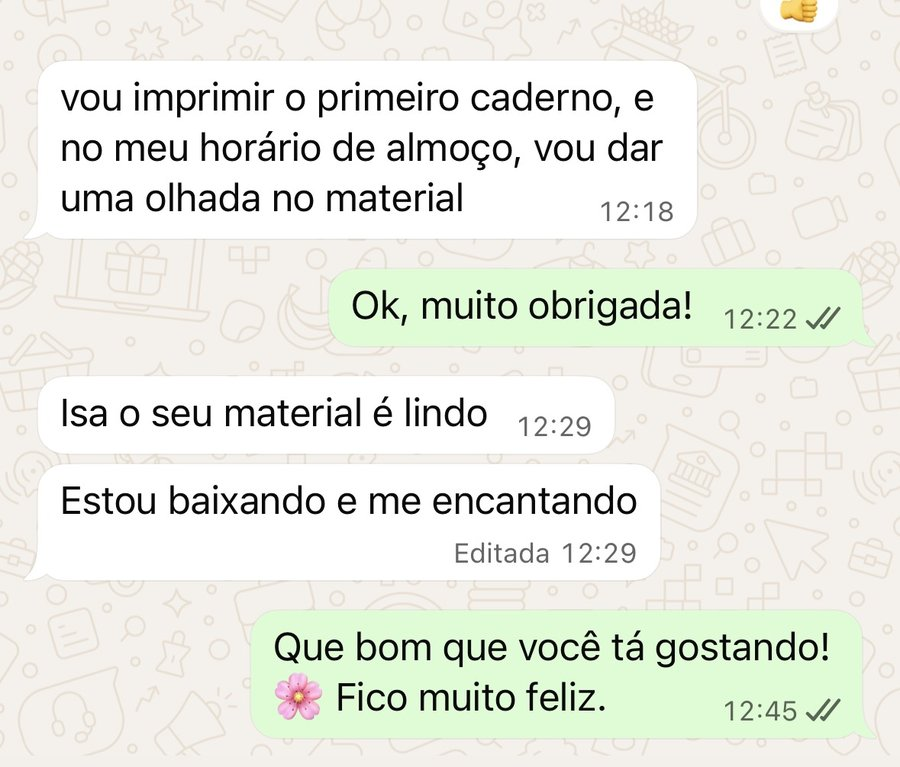
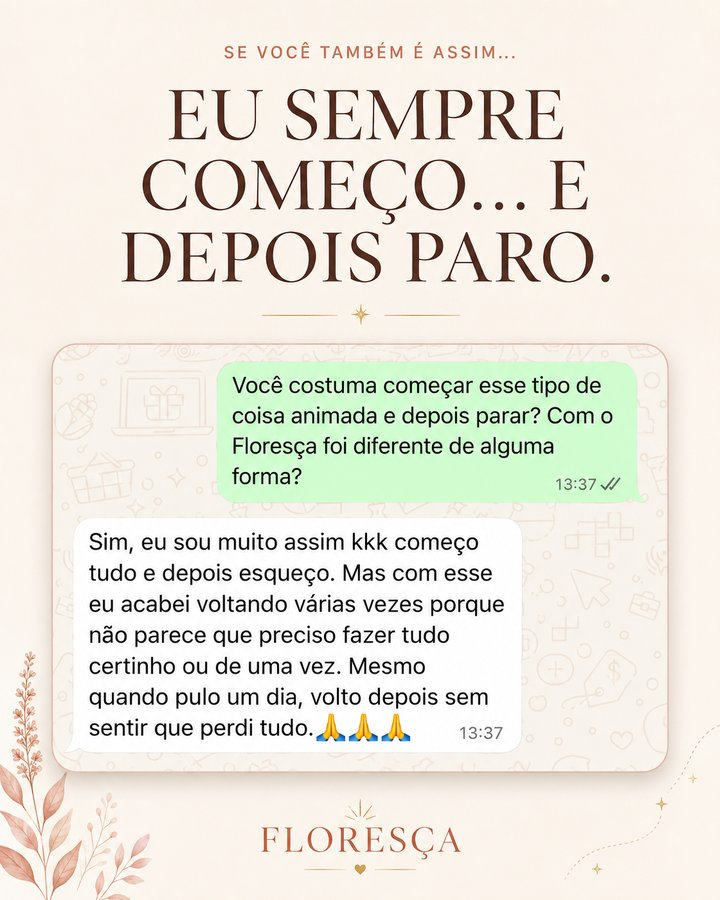
Troca depoimentos da secao Conversas Reais pelos 6 novos prints, em lista vertical em vez de carrossel
Assim a pessoa consegue ler todos rolando a pagina, sem precisar arrastar/clicar entre eles.

diff --git a/index.html b/index.html
@@ -850,51 +850,20 @@ img { max-width: 100%; display: block; }
 
 /* Carrossel de depoimentos (prints reais) */
 .proof-section { padding: 48px 0 40px; background: #fff; text-align: center; }
-.proof-carousel-wrap { position: relative; max-width: 420px; margin: 30px auto 0; }
-.proof-carousel {
+.proof-stack {
+  max-width: 460px;
+  margin: 30px auto 0;
+  padding: 0 20px;
   display: flex;
-  overflow-x: auto;
-  scroll-snap-type: x mandatory;
-  -webkit-overflow-scrolling: touch;
-  gap: 0;
-  border-radius: 18px;
-  scrollbar-width: none;
+  flex-direction: column;
+  gap: 28px;
 }
-.proof-carousel::-webkit-scrollbar { display: none; }
-.proof-slide {
-  flex: 0 0 100%;
-  scroll-snap-align: center;
-  display: flex;
-  justify-content: center;
-}
-.proof-slide img {
+.proof-stack img {
   width: 100%;
   border-radius: 18px;
   box-shadow: 0 12px 30px rgba(61,43,39,.15);
+  display: block;
 }
-.proof-nav {
-  position: absolute;
-  top: 50%;
-  transform: translateY(-50%);
-  width: 38px; height: 38px;
-  border-radius: 50%;
-  background: #fff;
-  border: 1.5px solid var(--linha);
-  color: var(--terr);
-  font-size: 18px;
-  font-weight: 900;
-  display: flex;
-  align-items: center;
-  justify-content: center;
-  cursor: pointer;
-  box-shadow: 0 6px 16px rgba(61,43,39,.15);
-  z-index: 2;
-  user-select: none;
-}
-.proof-nav.prev { left: -14px; }
-.proof-nav.next { right: -14px; }
-.proof-dots { display: flex; justify-content: center; gap: 8px; margin-top: 16px; }
-.proof-dot { width: 7px; height: 7px; border-radius: 50%; background: var(--linha); }
 .proof-dot.active { background: var(--terr); }
 
 /* Quebra de objeções */
@@ -1905,42 +1874,15 @@ footer a { color: rgba(255,255,255,.3); }
 <section class="proof-section">
   <span class="eyebrow">quem já comprou</span>
   <h2 class="section-h">Conversas <span class="accent">reais</span></h2>
-  <div class="proof-carousel-wrap">
-    <div class="proof-nav prev" onclick="proofMove(-1)">‹</div>
-    <div class="proof-carousel" id="proofCarousel">
-      <div class="proof-slide"><img src="depoimento-3.jpg" alt="Depoimento real de cliente Floresça" loading="lazy"></div>
-      <div class="proof-slide"><img src="depoimento-2.jpg" alt="Depoimento real de cliente Floresça" loading="lazy"></div>
-      <div class="proof-slide"><img src="depoimento-1.jpg" alt="Depoimento real de cliente Floresça" loading="lazy"></div>
-    </div>
-    <div class="proof-nav next" onclick="proofMove(1)">›</div>
-  </div>
-  <div class="proof-dots" id="proofDots">
-    <div class="proof-dot active"></div>
-    <div class="proof-dot"></div>
-    <div class="proof-dot"></div>
+  <div class="proof-stack">
+    <img src="depoimento-1.jpg" alt="Depoimento real de cliente Floresça" loading="lazy">
+    <img src="depoimento-2.jpg" alt="Depoimento real de cliente Floresça" loading="lazy">
+    <img src="depoimento-3.jpg" alt="Depoimento real de cliente Floresça" loading="lazy">
+    <img src="depoimento-4.jpg" alt="Depoimento real de cliente Floresça" loading="lazy">
+    <img src="depoimento-5.jpg" alt="Depoimento real de cliente Floresça" loading="lazy">
+    <img src="depoimento-6.jpg" alt="Depoimento real de cliente Floresça" loading="lazy">
   </div>
 </section>
-<script>
-(function() {
-  var track = document.getElementById('proofCarousel');
-  var dots = document.querySelectorAll('#proofDots .proof-dot');
-  var total = track.children.length;
-  var current = 0;
-
-  window.proofMove = function(dir) {
-    current = Math.max(0, Math.min(total - 1, current + dir));
-    track.scrollTo({ left: track.clientWidth * current, behavior: 'smooth' });
-  };
-
-  track.addEventListener('scroll', function() {
-    var idx = Math.round(track.scrollLeft / track.clientWidth);
-    if (idx !== current) {
-      current = idx;
-      dots.forEach(function(d, i) { d.classList.toggle('active', i === idx); });
-    }
-  });
-})();
-</script>
 
 <!-- ===================== VALUE STACK ===================== -->
 <section class="stack-section section-center">
